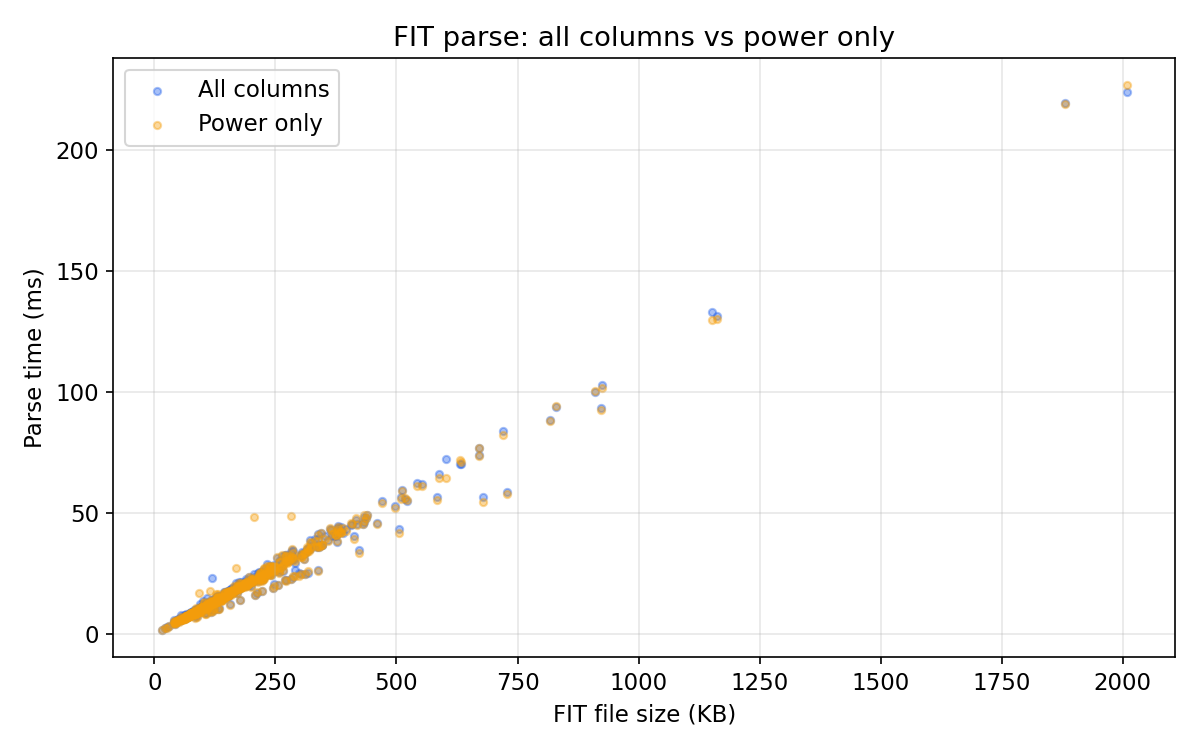
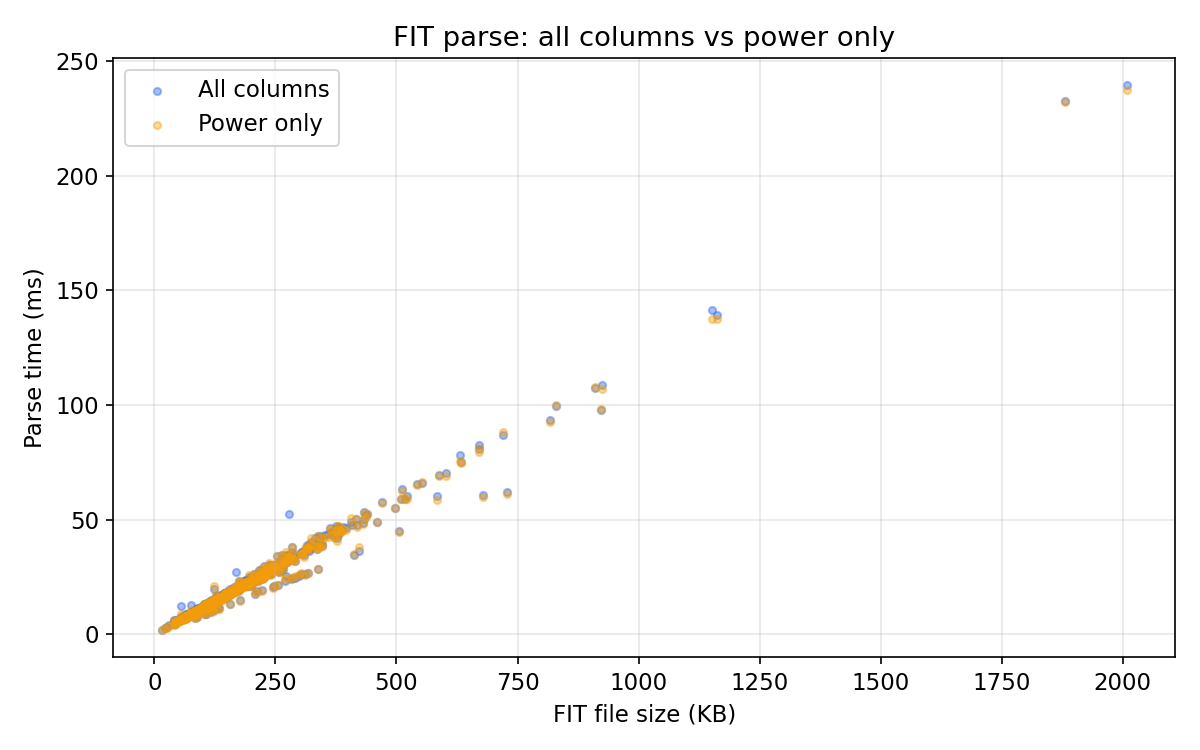
Cleanup, final part of aggressive refactor

diff --git a/src/pyroparse/_activity.py b/src/pyroparse/_activity.py
@@ -9,7 +9,7 @@ from pyroparse._core import parse_fit as _parse_fit
 from pyroparse._core import parse_fit_bytes as _parse_fit_bytes
 from pyroparse._core import parse_fit_metadata as _parse_fit_metadata
 from pyroparse._errors import MultipleActivitiesError
-from pyroparse._metadata import ActivityMetadata, build_metadata, merge_metadata
+from pyroparse._metadata import ActivityMetadata, _build_metadata, _merge_metadata
 from pyroparse._schema import select_columns
 from pyroparse._types import PathSource, Source
 
@@ -82,8 +82,8 @@ class Activity:
 
         raw_activity = activities[0]
         data = pa.Table.from_batches([raw_activity["records"]])
-        file_meta = build_metadata(raw_activity["metadata"])
-        meta = merge_metadata(file_meta, metadata)
+        file_meta = _build_metadata(raw_activity["metadata"])
+        meta = _merge_metadata(file_meta, metadata)
         data = select_columns(data, columns, extra_columns, missing)
         _filter_device_columns(meta, data)
         return cls(data, meta)
@@ -102,7 +102,7 @@ class Activity:
 
         data, file_meta = read_parquet(source)
         data = select_columns(data, columns, extra_columns, missing)
-        meta = merge_metadata(file_meta, metadata)
+        meta = _merge_metadata(file_meta, metadata)
         _filter_device_columns(meta, data)
         return cls(data, meta)
 
@@ -120,7 +120,7 @@ class Activity:
 
         data, inferred = read_csv(source)
         data = select_columns(data, columns, extra_columns, missing)
-        meta = merge_metadata(inferred, metadata)
+        meta = _merge_metadata(inferred, metadata)
         _filter_device_columns(meta, data)
         return cls(data, meta)
 
@@ -148,8 +148,8 @@ class Activity:
         if len(activities) > 1:
             raise MultipleActivitiesError(len(activities))
 
-        file_meta = build_metadata(activities[0]["metadata"])
-        file_meta = merge_metadata(file_meta, metadata)
+        file_meta = _build_metadata(activities[0]["metadata"])
+        file_meta = _merge_metadata(file_meta, metadata)
 
         def loader() -> pa.Table:
             data, _ = _parse_single(resolved)
@@ -174,7 +174,7 @@ class Activity:
 
         resolved = os.fspath(path)
         file_meta = read_parquet_metadata(resolved)
-        merged = merge_metadata(file_meta, metadata)
+        merged = _merge_metadata(file_meta, metadata)
 
         def loader() -> pa.Table:
             data, _ = read_parquet(resolved)
@@ -209,13 +209,13 @@ def _parse_single(source: Source) -> tuple[pa.Table, ActivityMetadata]:
         raise MultipleActivitiesError(len(activities))
     a = activities[0]
     data = pa.Table.from_batches([a["records"]])
-    return data, build_metadata(a["metadata"])
+    return data, _build_metadata(a["metadata"])
 
 
 def _parse_multi(source: Source) -> list[tuple[pa.Table, ActivityMetadata]]:
     """Parse a multi-activity FIT source, returning list of (data, metadata)."""
     raw = _call_parser(source)
     return [
-        (pa.Table.from_batches([a["records"]]), build_metadata(a["metadata"]))
+        (pa.Table.from_batches([a["records"]]), _build_metadata(a["metadata"]))
         for a in raw["activities"]
     ]

diff --git a/src/pyroparse/_session.py b/src/pyroparse/_session.py
@@ -10,7 +10,7 @@ from pyroparse._activity import (
     _parse_multi,
 )
 from pyroparse._core import parse_fit_metadata as _parse_fit_metadata
-from pyroparse._metadata import ActivityMetadata, build_metadata
+from pyroparse._metadata import ActivityMetadata, _build_metadata
 from pyroparse._schema import select_columns
 
 
@@ -55,7 +55,7 @@ class Session:
         """Load metadata now, defer record data until ``.data`` is accessed."""
         resolved = str(os.fspath(path))
         raw = _parse_fit_metadata(resolved)
-        metas = [build_metadata(a["metadata"]) for a in raw["activities"]]
+        metas = [_build_metadata(a["metadata"]) for a in raw["activities"]]
 
         # All activities share a single lazy parse — first .data access triggers it.
         cache: dict[int, pa.Table] = {}

diff --git a/src/reference.rs b/src/reference.rs
@@ -154,6 +154,21 @@ mod tests {
     }
 
     #[test]
+    fn sub_sport_known_ids() {
+        assert_eq!(sub_sport_name(0), "generic");
+        assert_eq!(sub_sport_name(6), "indoor_cycling");
+        assert_eq!(sub_sport_name(7), "road");
+        assert_eq!(sub_sport_name(14), "indoor_rowing");
+        assert_eq!(sub_sport_name(17), "lap_swimming");
+        assert_eq!(sub_sport_name(3), "trail");
+    }
+
+    #[test]
+    fn sub_sport_unknown_returns_unknown() {
+        assert_eq!(sub_sport_name(255), "unknown");
+    }
+
+    #[test]
     fn antplus_type_known_names() {
         assert_eq!(antplus_type_from_name("heart_rate"), Some(120));
         assert_eq!(antplus_type_from_name("bike_power"), Some(11));

diff --git a/src/pyroparse/_metadata.py b/src/pyroparse/_metadata.py
@@ -88,7 +88,7 @@ class ActivityMetadata:
         return self._repr("ActivityMetadata")
 
 
-def merge_metadata(
+def _merge_metadata(
     base: ActivityMetadata, overrides: dict | None
 ) -> ActivityMetadata:
     """Return a copy of *base* with *overrides* applied (manual > file-native)."""
@@ -103,7 +103,7 @@ def merge_metadata(
 # Raw Rust dict → ActivityMetadata
 # ---------------------------------------------------------------------------
 
-def build_metadata(raw: dict) -> ActivityMetadata:
+def _build_metadata(raw: dict) -> ActivityMetadata:
     """Construct an ActivityMetadata from the raw dict returned by Rust."""
     start_time = None
     if raw.get("start_time") is not None:

diff --git a/src/lib.rs b/src/lib.rs
@@ -14,12 +14,12 @@ use reference::{
 };
 use types::{fit_value_to_arrow_type, promote_type, TypedColumn};
 use values::{
-    value_to_f32, value_to_f64, value_to_i16, value_to_i32, value_to_i64, value_to_i8,
+    value_to_f32, value_to_f64, value_to_i16, value_to_i8,
     value_to_string, value_to_timestamp_secs, value_to_timestamp_us, value_to_u8,
 };
 
 use arrow::array::{
-    Float32Array, Float64Array, Int16Array, Int32Array, Int64Array, Int8Array, StringArray,
+    Float32Array, Float64Array, Int16Array, Int8Array, StringArray,
     TimestampMicrosecondArray,
 };
 use arrow::datatypes::{DataType, Field, Schema, TimeUnit};

diff --git a/src/pyroparse/__init__.py b/src/pyroparse/__init__.py
@@ -19,6 +19,7 @@ __all__ = [
     "Device",
     "MultipleActivitiesError",
     "Session",
+    "Source",
     "Sport",
     "STANDARD_COLUMNS",
     "classify_sport",

diff --git a/BENCHMARK.md b/BENCHMARK.md
@@ -30,17 +30,17 @@ Each operation is measured once per file (no repeated iterations) across
 
 | Operation | median | p5 | p95 | max |
 |---|--:|--:|--:|--:|
-| **FIT full parse** | **16 ms** | 5.3 ms | 62 ms | 224 ms |
-| **FIT metadata scan** | **0.48 ms** | 0.19 ms | 1.7 ms | 4.0 ms |
-| **Parquet full load** | **1.2 ms** | 0.85 ms | 2.4 ms | 4.3 ms |
-| **Parquet metadata scan** | **0.17 ms** | 0.14 ms | 0.22 ms | 1.7 ms |
-| **Parquet write** | **1.6 ms** | 0.89 ms | 3.9 ms | 8.9 ms |
+| **FIT full parse** | **17 ms** | 5.6 ms | 67 ms | 239 ms |
+| **FIT metadata scan** | **0.58 ms** | 0.24 ms | 2.0 ms | 4.7 ms |
+| **Parquet full load** | **1.3 ms** | 0.88 ms | 2.4 ms | 5.0 ms |
+| **Parquet metadata scan** | **0.18 ms** | 0.15 ms | 0.24 ms | 1.9 ms |
+| **Parquet write** | **1.7 ms** | 0.90 ms | 4.5 ms | 103 ms |
 
 ### Parquet vs FIT speedup
 
 | Operation | median speedup |
 |---|--:|
-| Full load | **14x** |
+| Full load | **13x** |
 | Metadata scan | **3x** |
 
 ## FIT parse time vs file size
@@ -73,8 +73,8 @@ Loading only `["timestamp", "power"]` instead of all 12 columns:
 
 | Load mode | FIT median | Parquet median |
 |---|--:|--:|
-| All columns | 15 ms | 1.2 ms |
-| Power only | 15 ms | 0.95 ms |
+| All columns | 16 ms | 1.3 ms |
+| Power only | 16 ms | 1.0 ms |
 
 FIT parse time is nearly identical — the Rust decoder must read the full
 binary stream regardless, and column selection only drops unwanted columns
